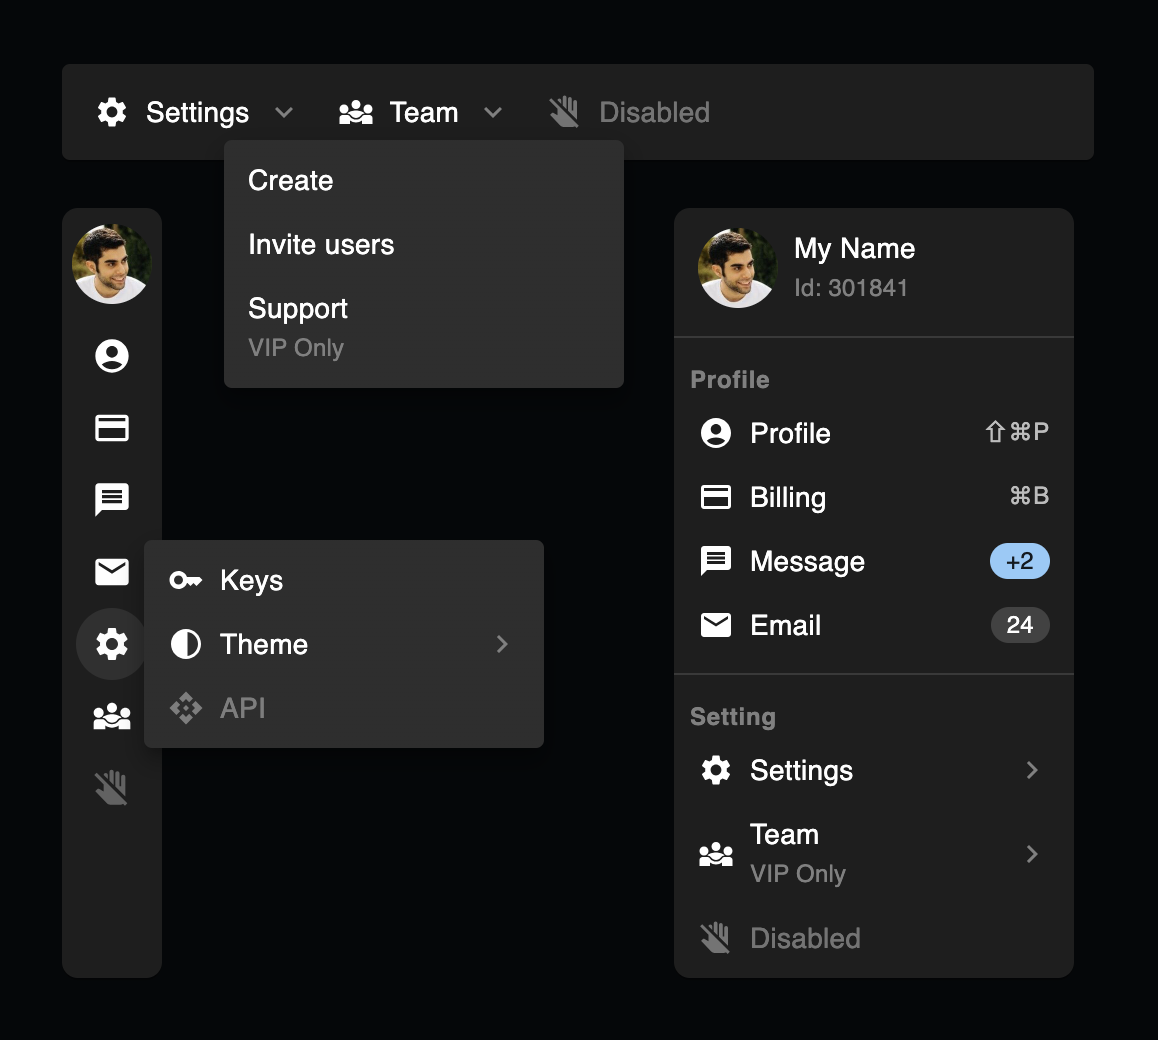
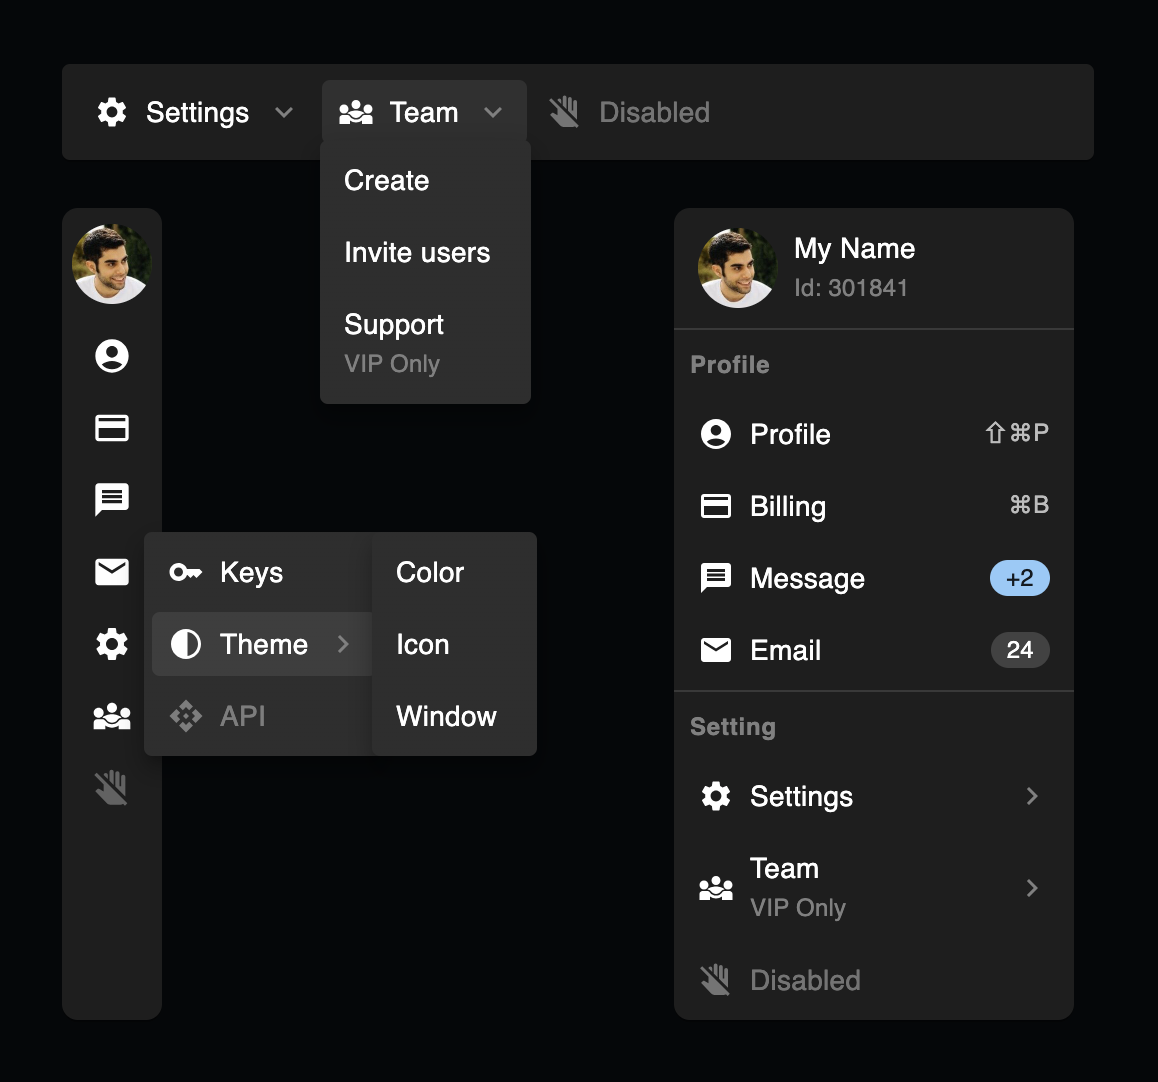
0.0.2

diff --git a/src/BaseMenuList.jsx b/src/BaseMenuList.jsx
@@ -1,5 +1,9 @@
 import KeyboardArrowRightIcon from '@mui/icons-material/KeyboardArrowRight';
-import { Box, Divider, Popover, Typography } from '@mui/material';
+import Box from '@mui/material/Box';
+import Divider from '@mui/material/Divider';
+import Popover from '@mui/material/Popover';
+import Stack from '@mui/material/Stack';
+import Typography from '@mui/material/Typography';
 import React, { useRef, useState } from 'react';
 import BaseMenuItem from './BaseMenuItem';
 import hasSelectedNode from './utils/hasSelectedNode';
@@ -16,13 +20,7 @@ const COMPONENTS = {
   Divider: () => <Divider />,
 };
 
-const Expand = ({
-  item = {},
-  onClick = () => {},
-  isSelected = () => {},
-  sx = {},
-  ...other
-}) => {
+const Expand = ({ item = {}, onClick = () => {}, isSelected = () => {} }) => {
   const itemRef = useRef(null);
   const [expanded, setExpanded] = useState(false);
   const onExpanded = () => {
@@ -32,12 +30,13 @@ const Expand = ({
     setExpanded(false);
   };
   return (
-    <Box>
+    <Box sx={{ px: 0.5 }}>
       <BaseMenuItem
         item={item}
         onMouseEnter={onExpanded}
         onMouseLeave={onClose}
         selected={hasSelectedNode(isSelected, item)}
+        actived={expanded}
         cb={(e) => onClick(item, e)}
         _ref={itemRef}
         extra={
@@ -48,9 +47,6 @@ const Expand = ({
             }}
           />
         }
-        sx={{
-          mx: 0.5,
-        }}
       />
 
       <Popover
@@ -89,7 +85,6 @@ const Expand = ({
             onClose();
           }}
           isSelected={isSelected}
-          {...other}
         />
       </Popover>
     </Box>
@@ -104,7 +99,7 @@ const MenuList = ({
   ...other
 }) => {
   return (
-    <Box sx={{ py: 0.5, minWidth: 200, maxWidth: 400, ...sx }} {...other}>
+    <Stack sx={{ py: 0.5, ...sx }} {...other} spacing={0.5}>
       {options.map((item, i) => {
         if (item.c && COMPONENTS.hasOwnProperty(item.c)) {
           const C = COMPONENTS[item.c];
@@ -118,26 +113,22 @@ const MenuList = ({
               item={item}
               onClick={onClick}
               isSelected={isSelected}
-              sx={sx}
-              {...other}
             />
           );
         }
         return (
-          <BaseMenuItem
-            key={i}
-            item={item}
-            cb={(el, e) => {
-              onClick(el, e);
-            }}
-            selected={isSelected(item)}
-            sx={{
-              mx: 0.5,
-            }}
-          />
+          <Box key={i} sx={{ px: 0.5 }}>
+            <BaseMenuItem
+              item={item}
+              cb={(el, e) => {
+                onClick(el, e);
+              }}
+              selected={isSelected(item)}
+            />
+          </Box>
         );
       })}
-    </Box>
+    </Stack>
   );
 };
 

diff --git a/src/VerticalMenu.jsx b/src/VerticalMenu.jsx
@@ -1,5 +1,8 @@
 import KeyboardArrowRightIcon from '@mui/icons-material/KeyboardArrowRight';
-import { Box, Divider, Typography } from '@mui/material';
+import Box from '@mui/material/Box';
+import Divider from '@mui/material/Divider';
+import Stack from '@mui/material/Stack';
+import Typography from '@mui/material/Typography';
 import React, { useRef, useState } from 'react';
 import BaseMenuItem from './BaseMenuItem';
 import hasSelectedNode from './utils/hasSelectedNode';
@@ -22,15 +25,13 @@ const Expand = ({
   isSelected = () => {
     return false;
   },
-  sx = {},
-  ...other
 }) => {
   const hasSelected = hasSelectedNode(isSelected, item);
   const itemRef = useRef(null);
   const [expanded, setExpanded] = useState(hasSelected);
 
   return (
-    <Box>
+    <Box sx={{ px: 0.5 }}>
       <BaseMenuItem
         item={item}
         onClick={() => {
@@ -50,9 +51,6 @@ const Expand = ({
             }}
           />
         }
-        sx={{
-          mx: 0.5,
-        }}
       />
 
       <Box
@@ -81,8 +79,6 @@ const Expand = ({
             onClick(el, e);
           }}
           isSelected={isSelected}
-          sx={sx}
-          {...other}
         />
       </Box>
     </Box>
@@ -99,7 +95,7 @@ const VerticalMenu = ({
   ...other
 }) => {
   return (
-    <Box sx={{ py: 0.5, minWidth: 200, maxWidth: 400, ...sx }} {...other}>
+    <Stack sx={{ py: 0.5, ...sx }} {...other} spacing={0.5}>
       {options.map((item, i) => {
         if (item.c && COMPONENTS.hasOwnProperty(item.c)) {
           const C = COMPONENTS[item.c];
@@ -113,26 +109,22 @@ const VerticalMenu = ({
               item={item}
               onClick={onClick}
               isSelected={isSelected}
-              sx={sx}
-              {...other}
             />
           );
         }
         return (
-          <BaseMenuItem
-            key={i}
-            item={item}
-            cb={(el, e) => {
-              onClick(el, e);
-            }}
-            selected={isSelected(item)}
-            sx={{
-              mx: 0.5,
-            }}
-          />
+          <Box key={i} sx={{ px: 0.5 }}>
+            <BaseMenuItem
+              item={item}
+              cb={(el, e) => {
+                onClick(el, e);
+              }}
+              selected={isSelected(item)}
+            />
+          </Box>
         );
       })}
-    </Box>
+    </Stack>
   );
 };
 

diff --git a/src/BaseMenuItem.jsx b/src/BaseMenuItem.jsx
@@ -1,14 +1,13 @@
 /* eslint-disable react/no-array-index-key */
-import {
-  Avatar,
-  Chip,
-  ListItemAvatar,
-  ListItemIcon,
-  ListItemText,
-  MenuItem,
-  Stack,
-  Typography,
-} from '@mui/material';
+import Avatar from '@mui/material/Avatar';
+import Chip from '@mui/material/Chip';
+import ListItemAvatar from '@mui/material/ListItemAvatar';
+import ListItemIcon from '@mui/material/ListItemIcon';
+import ListItemText from '@mui/material/ListItemText';
+import MenuItem from '@mui/material/MenuItem';
+import Stack from '@mui/material/Stack';
+import Typography from '@mui/material/Typography';
+
 import { useTheme } from '@mui/material/styles';
 
 import React from 'react';
@@ -17,12 +16,14 @@ export default ({
   _ref = null,
   item = {},
   selected = false,
+  actived = false,
   cb = () => {},
   extra = null,
   sx,
   ...other
 }) => {
   const theme = useTheme();
+  const isDark = theme.palette.mode === 'dark';
 
   const {
     avatar = '',
@@ -51,6 +52,11 @@ export default ({
         px: 1,
         minHeight: '0px !important',
         borderRadius: 1,
+        bgcolor: actived
+          ? isDark
+            ? 'rgba(255,255,255,.08)'
+            : 'rgba(0,0,0,.04)'
+          : '',
         ...sx,
       }}
       {...other}

diff --git a/docs/components/examples/menu-item.jsx b/docs/components/examples/menu-item.jsx
@@ -1,6 +1,6 @@
 import React, { useState } from 'react';
 
-import { Box } from '@mui/material';
+import { Paper } from '@mui/material';
 
 import { BaseMenuItem } from '@totalizer/xmenu';
 
@@ -9,7 +9,7 @@ import AccountCircleIcon from '@mui/icons-material/AccountCircle';
 export default () => {
   const [title, setTitle] = useState('');
   return (
-    <Box sx={{ width: 250, margin: '0 auto' }}>
+    <Paper sx={{ width: 250, margin: '0 auto' }}>
       <BaseMenuItem
         item={{
           icon: <AccountCircleIcon />,
@@ -17,6 +17,6 @@ export default () => {
           secondary: '⇧⌘P',
         }}
       />
-    </Box>
+    </Paper>
   );
 };

diff --git a/docs/components/examples/menu-list.jsx b/docs/components/examples/menu-list.jsx
@@ -1,6 +1,6 @@
 import React, { useState } from 'react';
 
-import { Box } from '@mui/material';
+import { Paper } from '@mui/material';
 
 import { BaseMenuList } from '@totalizer/xmenu';
 
@@ -9,7 +9,7 @@ import options from './options';
 export default () => {
   const [title, setTitle] = useState('');
   return (
-    <Box sx={{ width: 250, margin: '0 auto' }}>
+    <Paper sx={{ width: 250, margin: '0 auto' }}>
       <BaseMenuList
         options={options}
         onClick={(item) => {
@@ -19,6 +19,6 @@ export default () => {
         }}
         isSelected={(item) => item.title === title}
       />
-    </Box>
+    </Paper>
   );
 };

diff --git a/docs/components/examples/menu-vertical.jsx b/docs/components/examples/menu-vertical.jsx
@@ -1,4 +1,4 @@
-import Stack from '@mui/material/Stack';
+import Paper from '@mui/material/Paper';
 import { VerticalMenu } from '@totalizer/xmenu';
 import React from 'react';
 
@@ -8,7 +8,7 @@ export default () => {
   const [title, setTitle] = React.useState('Keys');
 
   return (
-    <Stack alignItems="center">
+    <Paper sx={{ width: 250, margin: '0 auto' }}>
       <VerticalMenu
         options={options}
         isSelected={(item) => item.title === title}
@@ -16,6 +16,6 @@ export default () => {
           if (!item.children) setTitle(item.title);
         }}
       />
-    </Stack>
+    </Paper>
   );
 };

diff --git a/src/HorizontalMenu.jsx b/src/HorizontalMenu.jsx
@@ -1,5 +1,6 @@
 /* eslint-disable react/no-array-index-key */
-import { Popover, Stack } from '@mui/material';
+import Popover from '@mui/material/Popover';
+import Stack from '@mui/material/Stack';
 
 import KeyboardArrowDownIcon from '@mui/icons-material/KeyboardArrowDown';
 import React, { useRef, useState } from 'react';
@@ -33,6 +34,7 @@ const ListContent = ({
         onMouseEnter={onExpanded}
         onMouseLeave={onClose}
         selected={hasSelectedNode(isSelected, item)}
+        actived={expanded}
         cb={(e) => {
           onClick(item, e);
         }}

diff --git a/src/SidebarMenu.jsx b/src/SidebarMenu.jsx
@@ -1,12 +1,11 @@
 /* eslint-disable react/no-array-index-key */
-import {
-  Avatar,
-  Box,
-  IconButton,
-  Popover,
-  Stack,
-  Tooltip,
-} from '@mui/material';
+import Avatar from '@mui/material/Avatar';
+import Box from '@mui/material/Box';
+import IconButton from '@mui/material/IconButton';
+import Popover from '@mui/material/Popover';
+import Stack from '@mui/material/Stack';
+import Tooltip from '@mui/material/Tooltip';
+
 import { useTheme } from '@mui/material/styles';
 
 import KeyboardArrowDownIcon from '@mui/icons-material/KeyboardArrowDown';

diff --git a/.dumi/theme/builtins/IndexHeader/index.jsx b/.dumi/theme/builtins/IndexHeader/index.jsx
@@ -68,7 +68,7 @@ export default function Hero() {
                 sx={{ justifyContent: 'center' }}
               >
                 <Button
-                  variant="contained"
+                  variant="outlined"
                   onClick={() => {
                     history.push('/guide');
                   }}

diff --git a/src/DropdownMenu.jsx b/src/DropdownMenu.jsx
@@ -1,5 +1,5 @@
 /* eslint-disable react/no-array-index-key */
-import { Menu } from '@mui/material';
+import Menu from '@mui/material/Menu';
 import { cloneElement, useState } from 'react';
 
 import BaseMenuList from './BaseMenuList';

diff --git a/src/ContextMenu.jsx b/src/ContextMenu.jsx
@@ -1,4 +1,4 @@
-import { Menu } from '@mui/material';
+import Menu from '@mui/material/Menu';
 import * as React from 'react';
 import BaseMenuList from './BaseMenuList';
 

diff --git a/README.md b/README.md
@@ -1,8 +1,17 @@
 # @totalizer/xmenu
 
-> [ 0.0.1-beta.4 ] This project is currently in its testing phase, with the official release just around the corner.
-
 Sleek and versatile menu components, built on Material UI, are designed to elevate your Front-End experience through customizable configurations.
+
+<p align="center"><a href="https://totalizer-x-menu.github.io/" target="_blank" rel="noopener noreferrer"><img width="300" src="./public/title.png" alt="xmenu"></a></p>
+
+<p align="center">
+  <a href="https://www.npmjs.com/package/@totalizer/xmenu"><img src="https://img.shields.io/npm/v/@totalizer/xmenu.svg?sanitize=true" alt="Version"></a>
+  <a href="https://www.npmjs.com/package/@totalizer/xmenu"><img src="https://img.shields.io/npm/l/@totalizer/xmenu.svg?sanitize=true" alt="License"></a>
+</p>
+
+<p align="center">
+  <img style="margin:0 auto;border:2px solid #ddd;border-radius:8px;" width="600px" src="./public/menu.png" />
+</p>
 
 ## Installation
 
